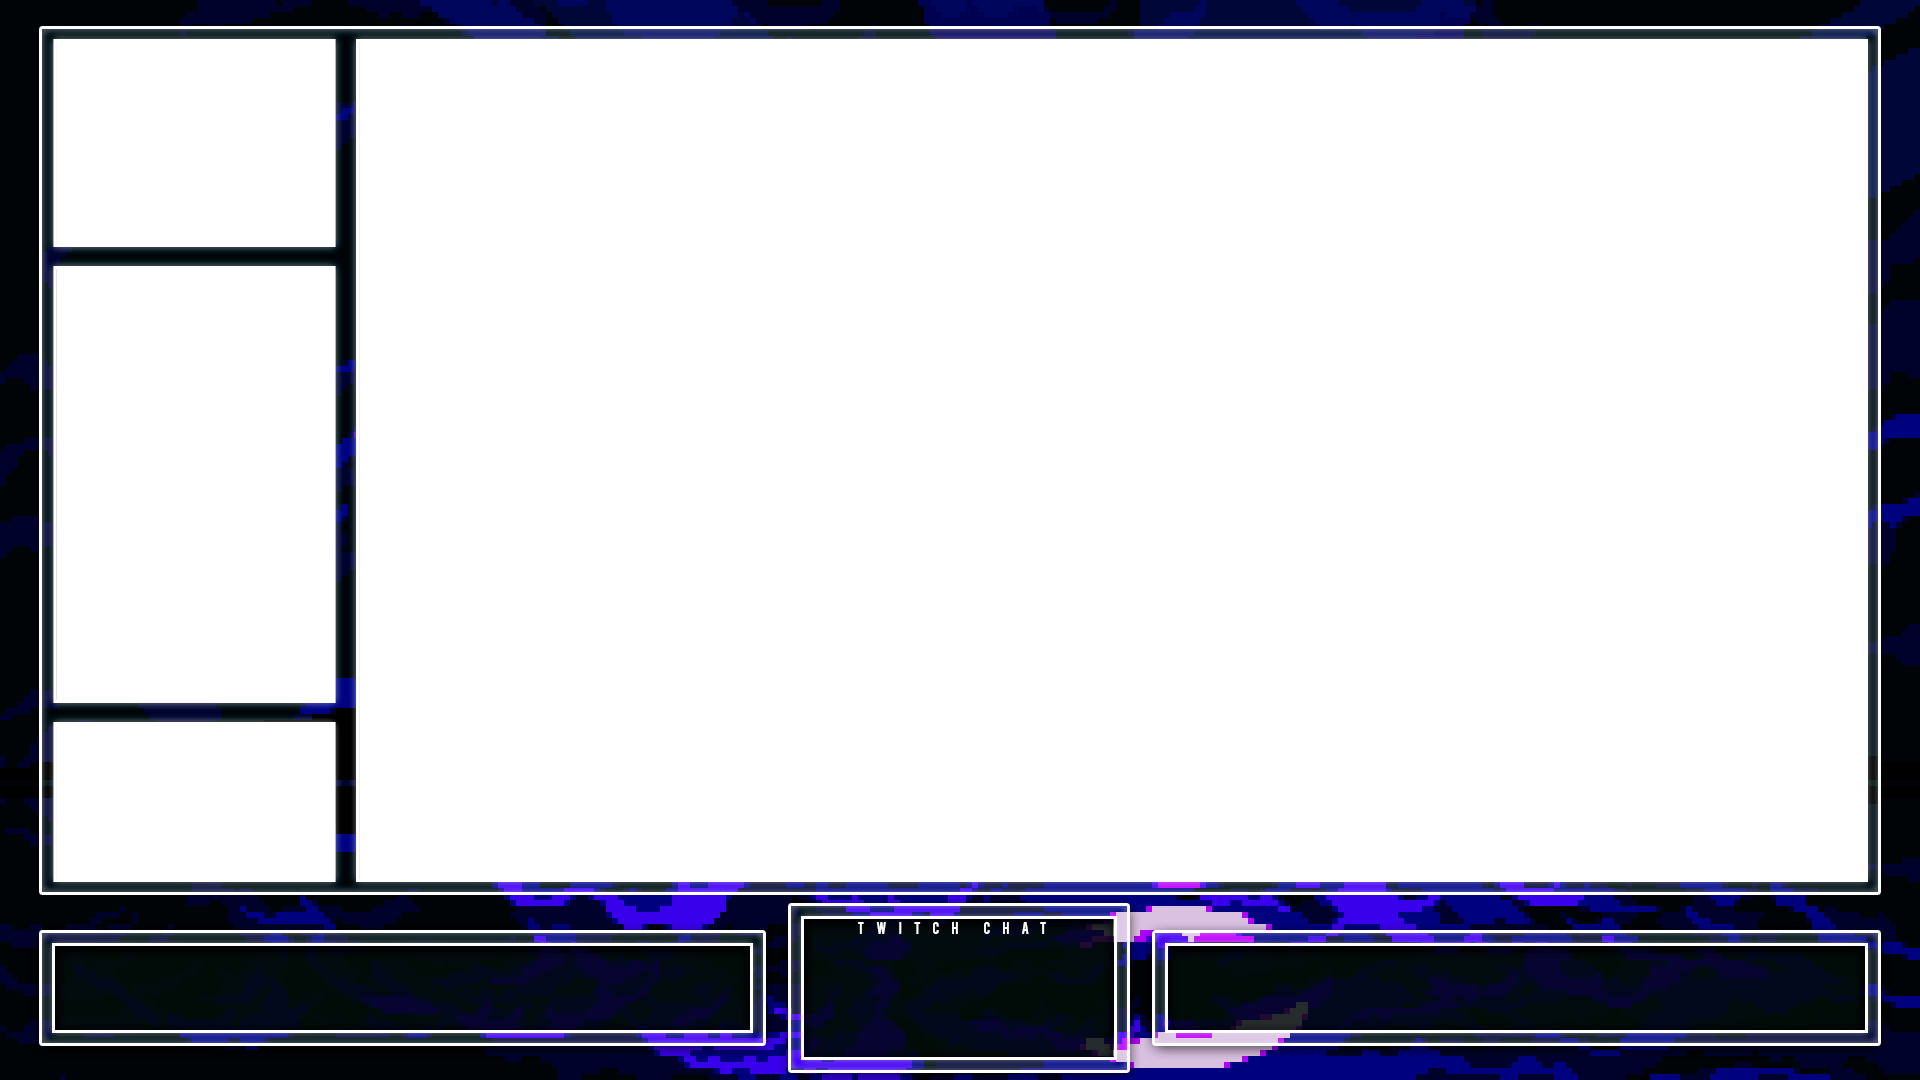
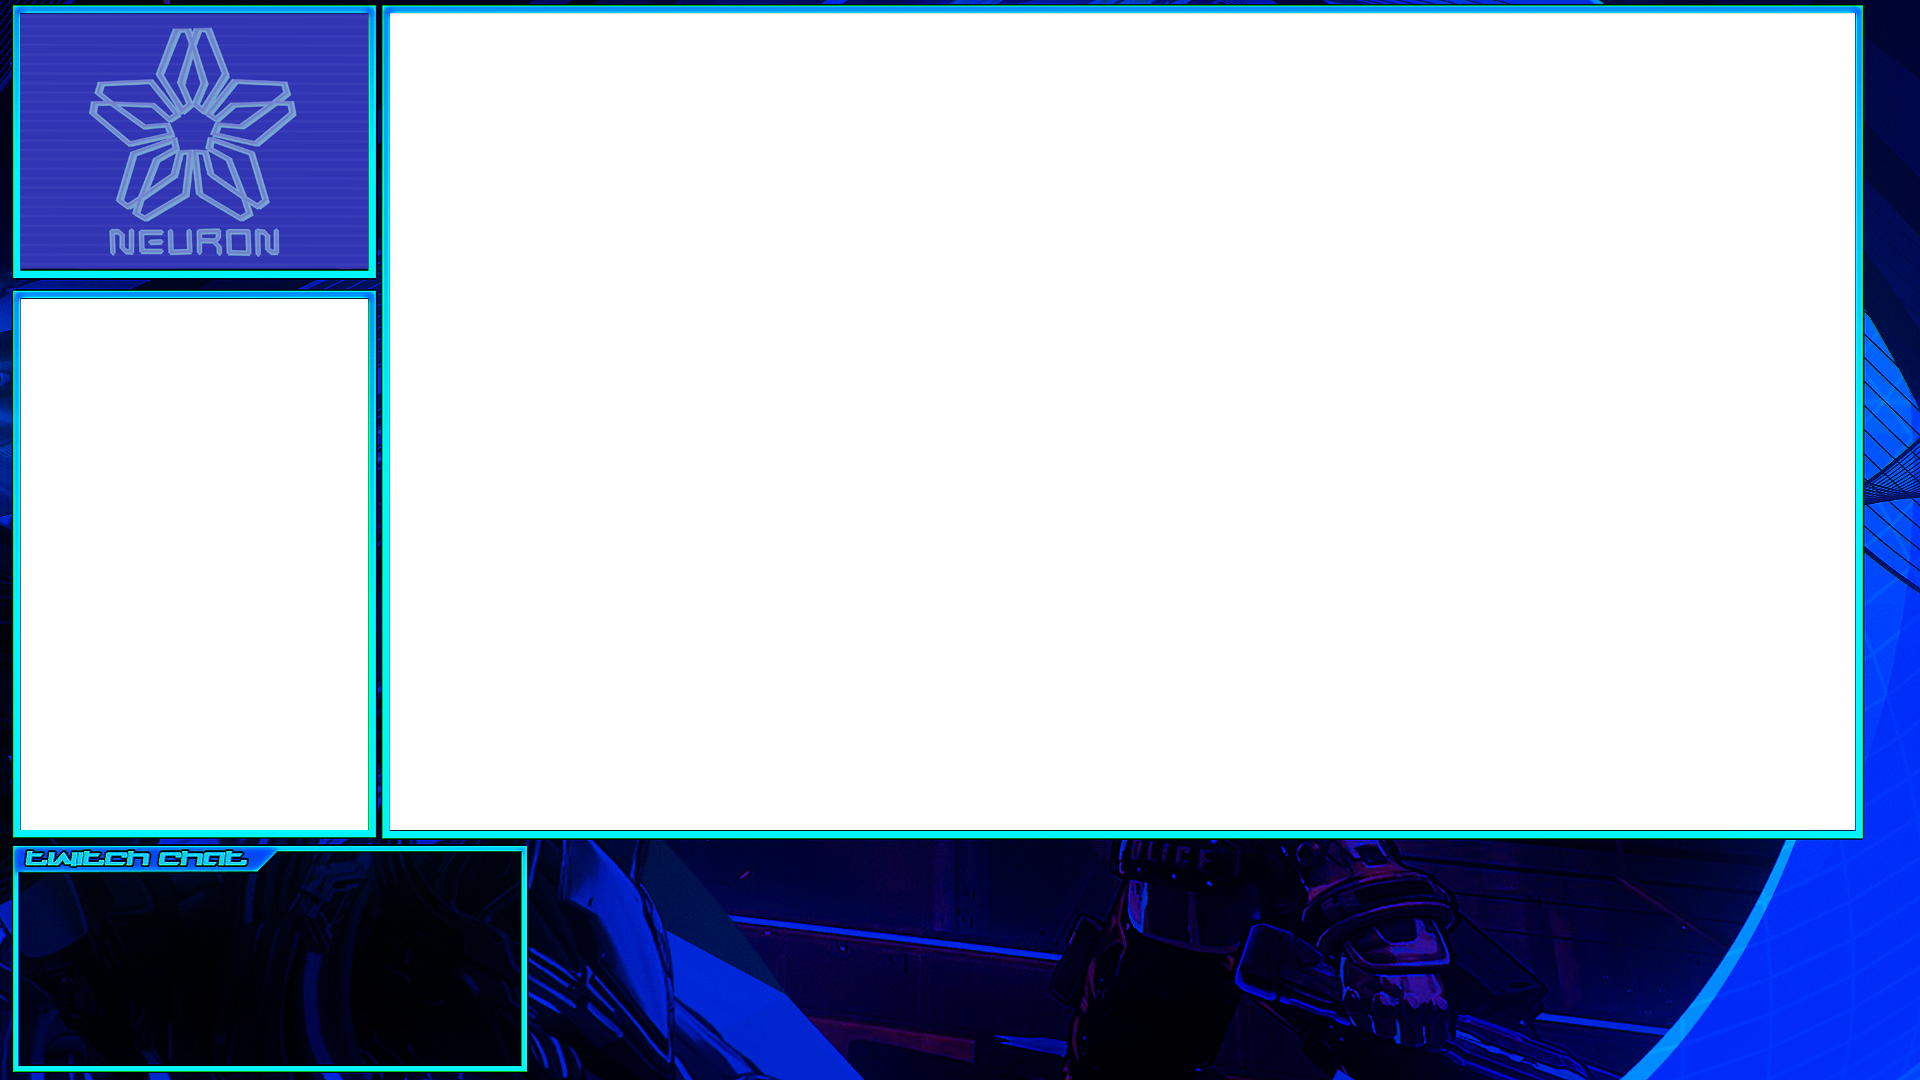
Overlay Update
Updated with new overlay files

diff --git a/public/main.js b/public/main.js
@@ -21,6 +21,7 @@ let timerState;
 let prevTimerState;
 let run;
 let currentSplit;
+let speedrun = true;
 
 // Audio files for luck
 const goodLuckAudio = new Audio('/media/sounds/GoodLuck.mp3');
@@ -35,7 +36,7 @@ let camRewardQueue = [];
 let lucks = [];
 let shift = 'Blue';
 let emotes = [];
-const emoteSize = 202; // Facecam emote size in pixels
+const emoteSize = 256; // Facecam emote size in pixels
 
 const maxRadius = 1080;
 
@@ -445,9 +446,9 @@ function showRewards() {
       camEmote.src = reward.emote.url;
       camEmote.style.width = `${emoteSize}px`;
       camEmote.style.height = `${emoteSize}px`;
-      let x = 56 + (277 - emoteSize) / 2;
+      let x = 21 + (349 - emoteSize) / 2;
       camEmote.style.left = `${x}px`;
-      camEmote.style.top = "42px";
+      camEmote.style.top = "14px";
     }
 
     reward.time -= dt;
@@ -463,7 +464,7 @@ function showRewards() {
 }
 
 // Send Fall Guys info to the server
-function updateFG() {
+const updateFG = () => {
   socket.emit('updateFGInfo', {
     'totalWins': totalWins,
     'sessionAttempts': sessionAttempts,
@@ -483,7 +484,7 @@ function updateFG() {
 }
 
 // Add win for a given level
-function addWin(level) {
+const addWin = (level) => {
   totalWins++;
   sessionWins++;
   winStreak++;
@@ -493,7 +494,7 @@ function addWin(level) {
 }
 
 // Used when resetting a run
-function resetRun() {
+const resetRun = () => {
   console.dir('run reset');
   // Clear out all users who have given luck
   lucks = [];
@@ -661,6 +662,34 @@ const updateInfo = () => {
   sessionInfoMessages[5].message = winRate;
 };
 
+const toggleFallGuys = () => {
+  fallGuys = !fallGuys;
+};
+
+const toggleSpeedrun = () => {
+  speedrun = !speedrun;
+  console.dir(speedrun);
+
+  if (!speedrun) {
+    running = true;
+    overlayQueue.push({
+      'type': 'start',
+      'time': 600,
+      'maxTime': 600,
+      'newOverlay': new Image(overlayCanvas.width, overlayCanvas.height),
+    });
+  } else {
+    running = false;
+    overlayQueue.push({
+      'type': 'reset',
+      'time': 600,
+      'maxTime': 600,
+      'newOverlay': new Image(overlayCanvas.width, overlayCanvas.height),
+      'sound': false,
+    });
+  }
+}
+
 // Open a WebSocket that works with LiveSplit
 function startSplitsSocket() {
   splitsSocket = new WebSocket('ws://localhost:15721');
@@ -726,6 +755,10 @@ function connect() {
   window.addEventListener("keypress", (event) => {
     if (event.key === 'r') {
       socket.emit('resetSession');
+    } else if (event.key === 'f') {
+      toggleFallGuys();
+    } else if (event.key === 's') {
+      toggleSpeedrun();
     }
   });
 

diff --git a/server.js b/server.js
@@ -6,6 +6,7 @@ const port = process.env.PORT || process.env.NODE_PORT || 3000;
 const OBSWebSocket = require('obs-websocket-js');
 const tmi = require('tmi.js');
 const fs = require('fs');
+let fallGuys = false;
 
 const opts = {
   identity: {
@@ -90,7 +91,7 @@ function onMessageHandler(target, context, msg, self) {
   const commandName = msg.trim();
 
   // If the command is known, let's execute it
-  if (commandName === '!wins') {
+  if (commandName === '!wins' && fallGuys) {
     client.say(target, `Swift has won ${stats.sessionWins} games this session! Swift has a total win count of ${stats.totalWins}!`);
 
     // Chatbot gonna get mean
@@ -112,7 +113,7 @@ function onMessageHandler(target, context, msg, self) {
         insulted = false;
       }, 240000);
     }
-  } else if (commandName === '!streak') {
+  } else if (commandName === '!streak' && fallGuys) {
     if (stats.winStreak === stats.highWinStreak) {
       client.say(target, `Swift is currently on a win streak of ${stats.winStreak} games! This is the highest streak of this session!`);
     } else {

diff --git a/views/index.html b/views/index.html
@@ -16,13 +16,13 @@
     <canvas id="overlayCanvas" width="1920" height="1080">
         </canvas>
     <!-- Canvas for drawing on gameplay -->
-    <canvas id="gameCanvas" width="1506" height="837">
+    <canvas id="gameCanvas" width="1465" height="818">
       </canvas>
       <!-- x:359 (+1), y:42 (+1) -->
     <img id="camBlack" src = "/media/overlays/CamBlack.png">
     <img id="camEmote">
     <!-- Canvas for drawing on webcam. Not used yet -->
-    <canvas id="camCanvas" width="277" height="202">
+    <canvas id="camCanvas" width="349" height="256">
       </canvas>
 
   </div>

diff --git a/public/styles.css b/public/styles.css
@@ -9,14 +9,14 @@
 
 #gameCanvas {
   position: absolute;
-  left: 359px;
-  top: 42px;
+  left: 391px;
+  top: 14px;
 }
 
 #camCanvas {
   position: absolute;
-  left: 56px;
-  top: 42px;
+  left: 21px;
+  top: 14px;
 }
 
 #camEmote {
@@ -26,9 +26,9 @@
 
 #camBlack {
   position: absolute;
-  left: 56px;
-  top: 42px;
-  width: 277px;
-  height: 202px;
+  left: 21px;
+  top: 14px;
+  width: 349px;
+  height: 256px;
   visibility: hidden;
 }
